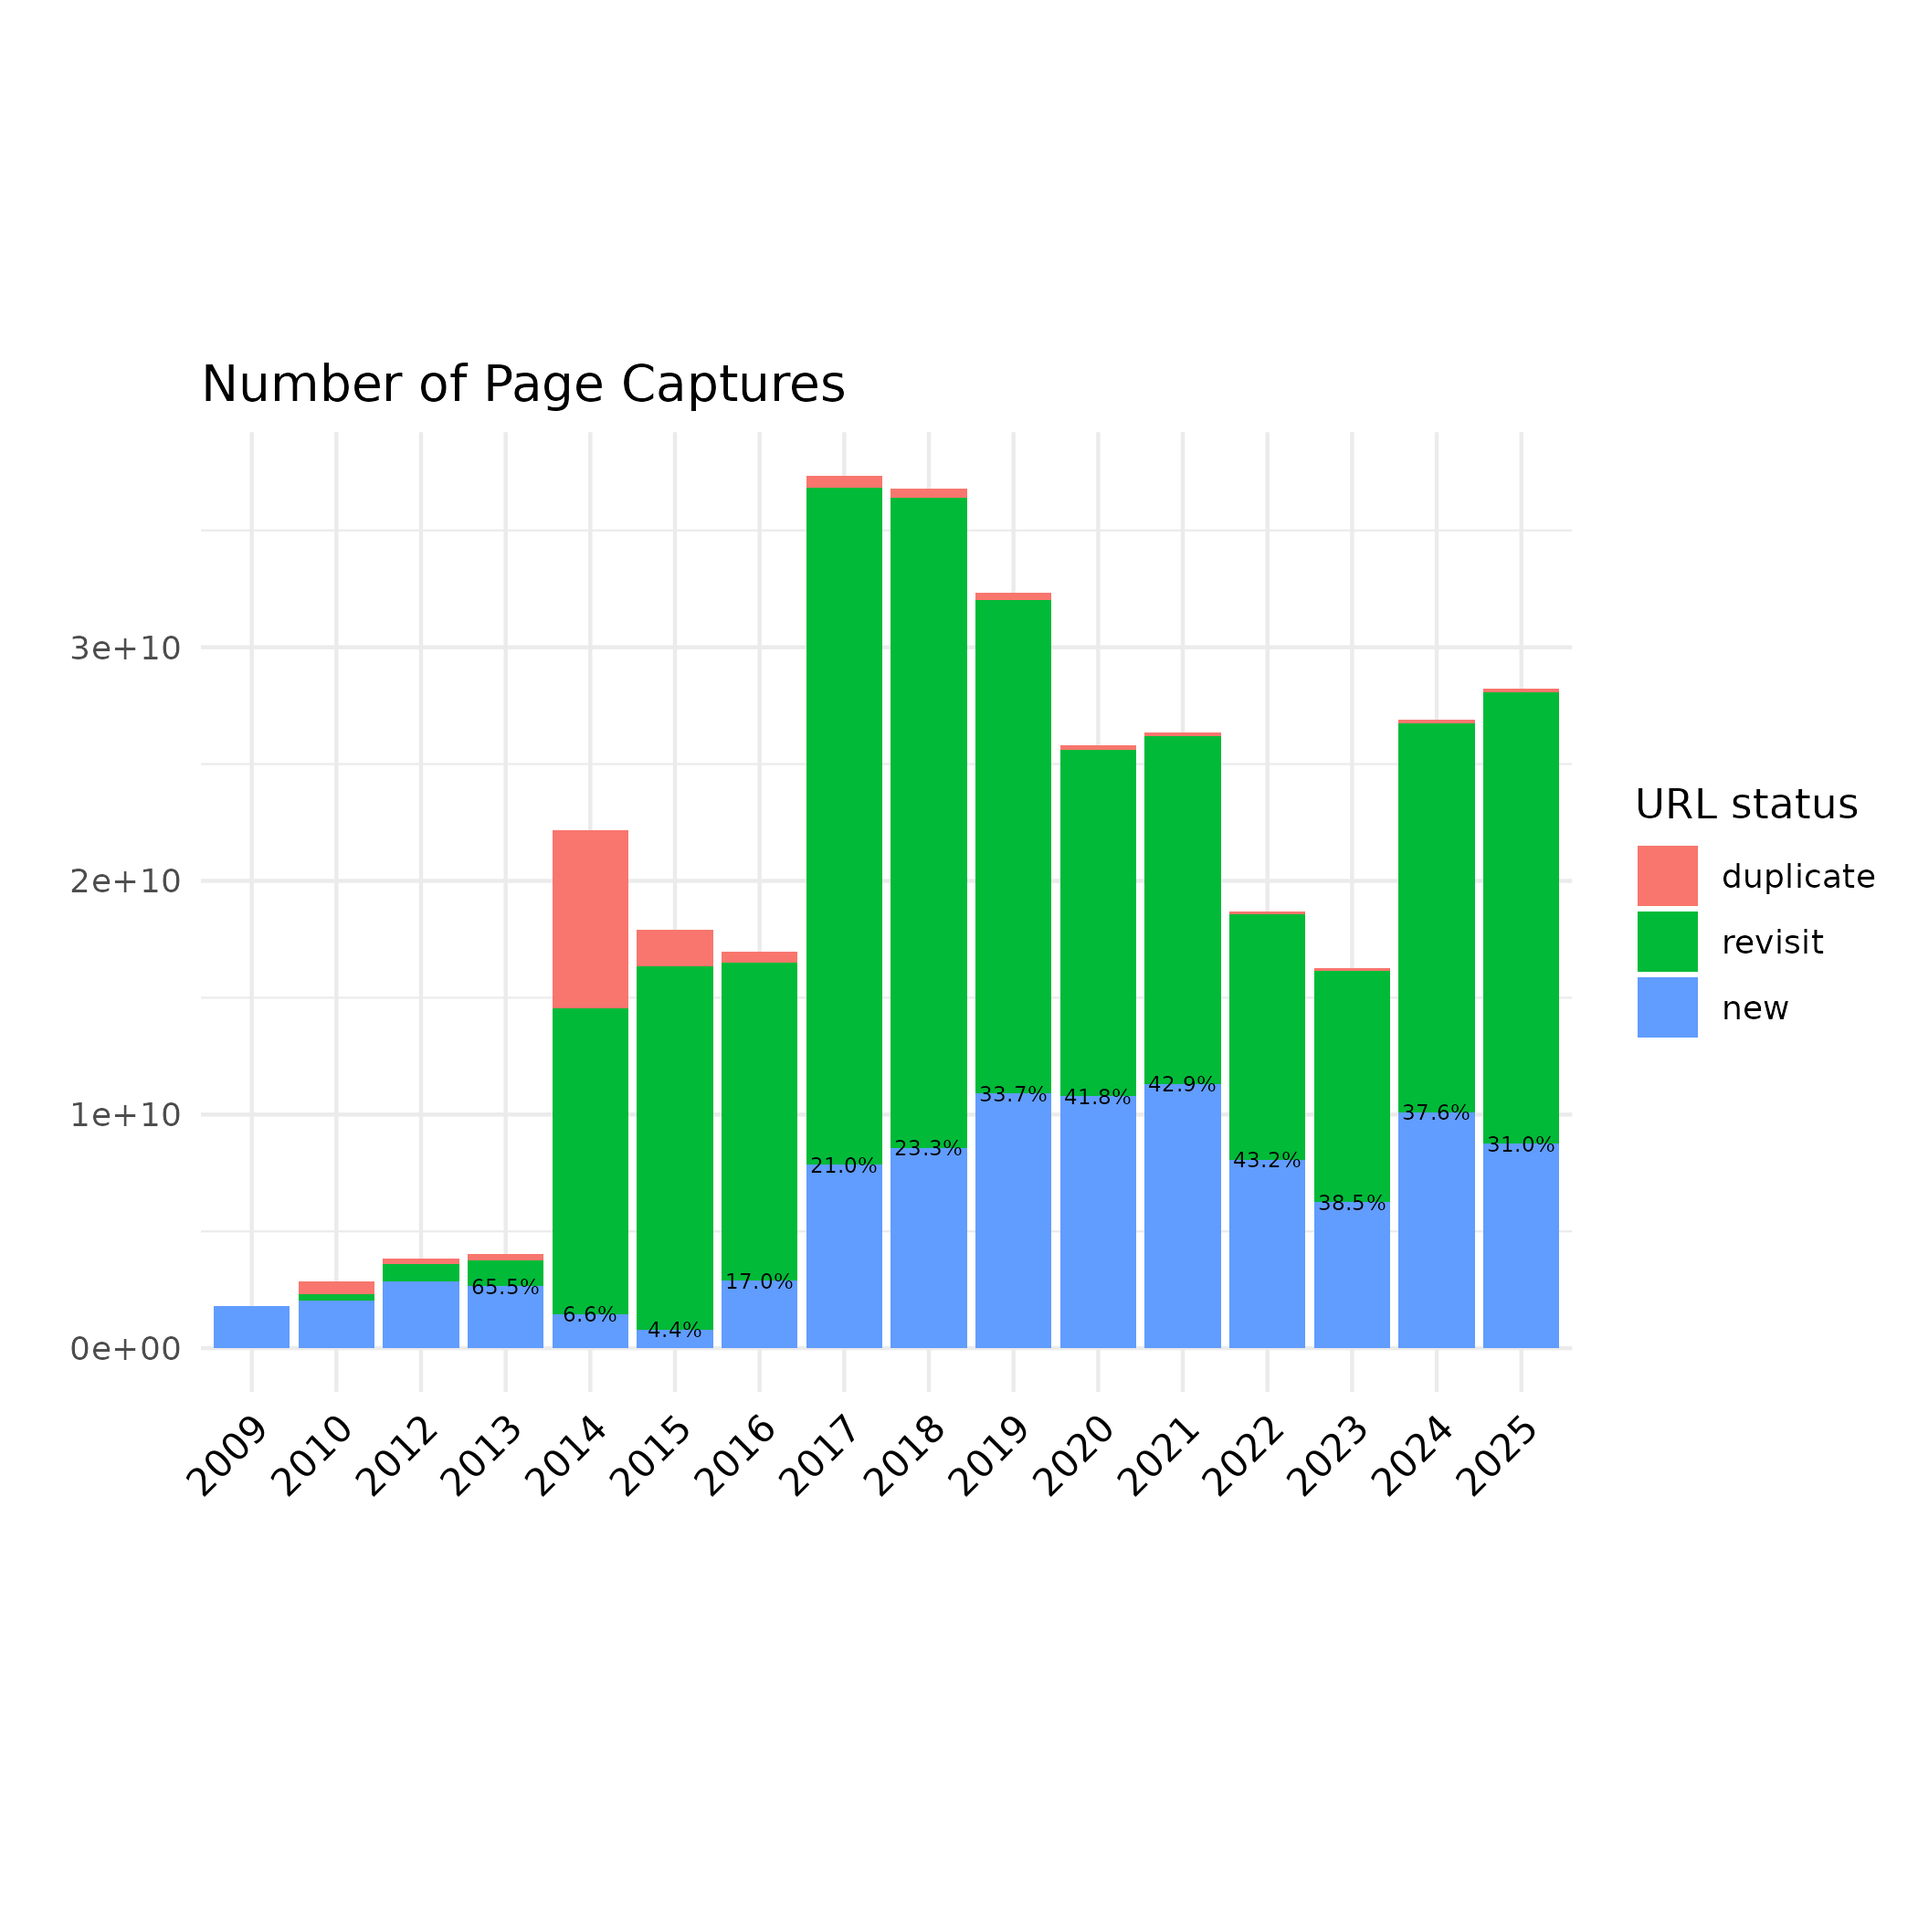
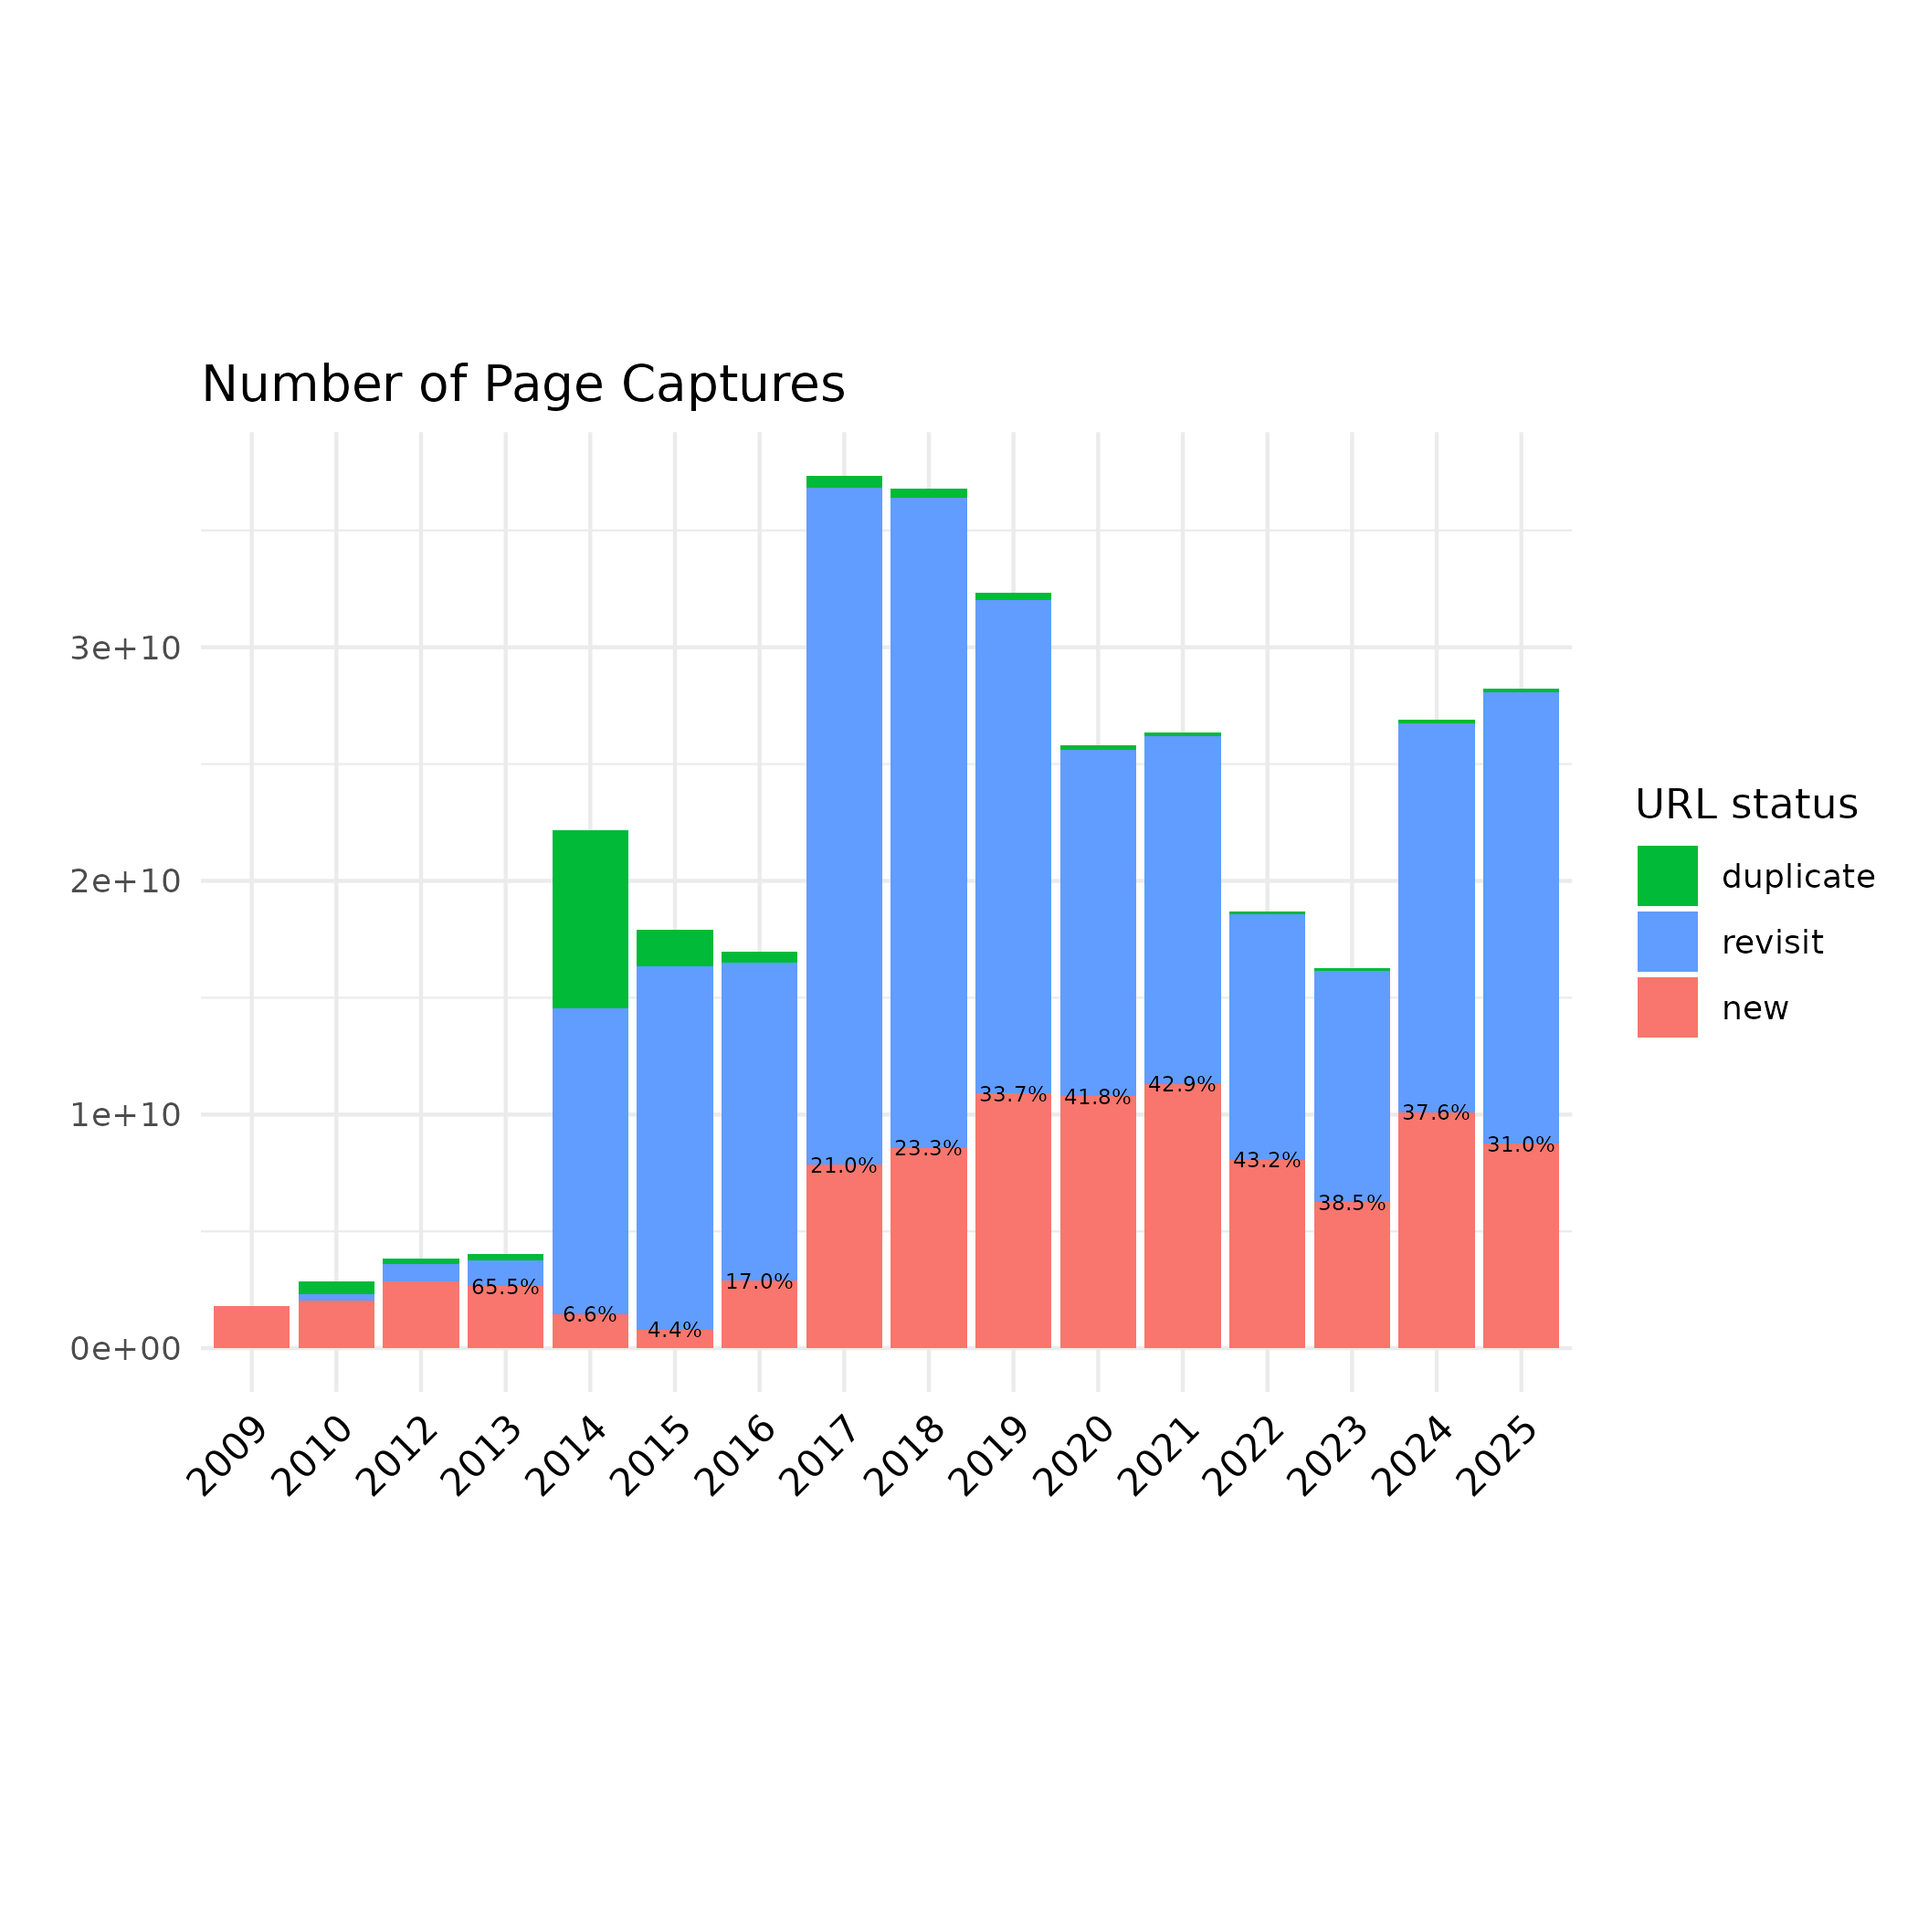
force colors

Changed region(s): [[0.0929, 0.2476, 0.8976, 0.7119]]

diff --git a/plot/crawl_size.py b/plot/crawl_size.py
@@ -9,6 +9,7 @@ from hyperloglog import HyperLogLog
 
 from rpy2.robjects.lib import ggplot2
 from rpy2.robjects import pandas2ri
+from rpy2 import robjects
 
 from crawlplot import CrawlPlot, PLOTDIR, GGPLOT2_THEME, GGPLOT2_THEME_KWARGS
 
@@ -286,7 +287,7 @@ class CrawlSizePlot(CrawlPlot):
                 color='black', size=2,
                 position=ggplot2.position_dodge(width=.5)) \
             + GGPLOT2_THEME \
-            + ggplot2.scale_fill_hue() \
+            + ggplot2.scale_fill_manual(values=robjects.r('c("duplicate"="#00BA38", "revisit"="#619CFF", "new"="#F8766D")')) \
             + ggplot2.theme(**{'legend.position': 'right',
                                'aspect.ratio': .7,
                                **GGPLOT2_THEME_KWARGS},
